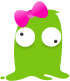
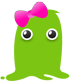
fixed opera css tag breaking some css, green monster has new eyes

diff --git a/public/stylesheets/style.css b/public/stylesheets/style.css
@@ -242,7 +242,7 @@ div#outer {
   height: 17px;
   background: url("/images/room/clearsearch.png") 50% 50% no-repeat;
 }
-div.chatContainer {
+.chatContainer {
   font-family: HelveticaNeue-Light, "Helvetica Neue Light", "Helvetica Neue", Helvetica, Arial, "Lucida Grande", sans-serif;
   width: 300px;
   height: 220px;
@@ -250,23 +250,17 @@ div.chatContainer {
   max-height: 220px;
   display: block;
 }
-div.chatContainer div.chatHeader {
+.chatContainer .chatHeader {
   width: 300px;
   height: 30px;
   background: -webkit-gradient(linear, left top, left bottom, from(#666), to(#434343));
   background: -moz-linear-gradient(top, #666, #434343);
+  background-image: -o-linear-gradient(top, #666, #434343);
 }
-div.chatContainer div.chatHeader background-image: -o-linear-gradient(top,
-div.chatContainer div.chatHeader #666,
-div.chatContainer div.chatHeader #434343),
-div.chatContainer div.chatHeader img.chatIcon {
-  display: inline-block;
-  width: 27px;
-  height: 24px;
-  margin-top: 4px;
-  margin-left: 5px;
+.chatContainer  img.chatIcon {
+  background-color: #f00;
 }
-div.chatContainer div.chatHeader div.chatTitle {
+.chatContainer  .chatTitle {
   margin-top: 6px;
   font-size: 16px;
   font-weight: bold;
@@ -277,7 +271,7 @@ div.chatContainer div.chatHeader div.chatTitle {
   height: 18px;
   width: 36px;
 }
-div.chatContainer #messages {
+.chatContainer #messages {
   background-color: #373737;
   border: none;
   color: #000;
@@ -285,7 +279,7 @@ div.chatContainer #messages {
   overflow-y: scroll;
   overflow-x: hidden;
 }
-div.chatContainer #messages div.messageContainer {
+.chatContainer #messages div.messageContainer {
   padding: 2px 4px;
   min-height: 20px;
   height: auto;
@@ -296,21 +290,21 @@ div.chatContainer #messages div.messageContainer {
   font-size: 14px;
   color: #d4d4d4;
 }
-div.chatContainer #messages div.messageContainer span {
+.chatContainer #messages div.messageContainer span {
   padding: 2px 0px 2px;
   margin-right: 3px;
   font-weight: bold;
   display: inline-block;
 }
-div.chatContainer #messages div.messageContainer div {
+.chatContainer #messages div.messageContainer div {
   padding-top: 2px;
   padding-bottom: 2px;
   display: inline;
 }
-div.chatContainer #messages div.messageContainer:nth-child(odd) {
+.chatContainer #messages div.messageContainer:nth-child(odd) {
   background-color: #313131;
 }
-div.chatContainer form.inputBox {
+.chatContainer form.inputBox {
   background-color: #666;
   background: -webkit-gradient(linear, left top, left bottom, from(#666), to(#434343));
   background: -moz-linear-gradient(top, #666, #434343);
@@ -322,7 +316,7 @@ div.chatContainer form.inputBox {
   -moz-border-bottom-right-radius: 2px;
   border-bottom-right-radius: 2px;
 }
-div.chatContainer form.inputBox input {
+.chatContainer form.inputBox input {
   border-radius: 4px;
   -webkit-border-radius: 4px;
   -moz-border-radius: 4px;
@@ -336,7 +330,7 @@ div.chatContainer form.inputBox input {
   text-indent: 4px;
   color: #c0c0c0;
 }
-div.chatContainer form.inputBox input:focus {
+.chatContainer form.inputBox input:focus {
   background-color: #e7e7e7;
   color: #000;
 }
@@ -536,7 +530,7 @@ div.historyContainer .history .videoHistory {
   margin-left: -70px;
   margin-top: 23px;
   font-size: 10px;
-  background: rgba(0,0,0,0.80);
+  background: rgba(0,0,0,0.8);
   width: 63px;
   text-align: left;
   text-indent: 1px;
@@ -1294,7 +1288,7 @@ background-color: green,
   text-align: left;
   text-indent: 1px;
   font-size: 10px;
-  background: rgba(0,0,0,0.80);
+  background: rgba(0,0,0,0.8);
   font-weight: bold;
 }
 #playlist-view .videoListCellContainer .cellInfo .videoInfo .views {
@@ -1616,7 +1610,7 @@ background-color: green,
   font-weight: bold;
 }
 #fullscreen.fully {
-  background: rgba(255,255,255,0.30);
+  background: rgba(255,255,255,0.3);
   position: fixed;
   margin-left: 0px;
   bottom: 0;
@@ -1626,7 +1620,7 @@ background-color: green,
   margin-top: 0px;
 }
 #fullscreen.fully:hover {
-  background: rgba(255,255,255,0.60);
+  background: rgba(255,255,255,0.6);
 }
 .nametip {
   width: 70px;
@@ -1652,7 +1646,7 @@ background-color: green,
   font-family: "Segoe UI", Candara, "Bitstream Vera Sans", "DejaVu Sans", "Bitstream Vera Sans", "Trebuchet MS", Verdana, "Verdana Ref", sans-serif;
   left: 50%;
   margin-left: -40%;
-  background: rgba(0,0,0,0.70);
+  background: rgba(0,0,0,0.7);
   box-shadow: 0px 0px 10px #000;
   text-align: center;
 }
@@ -1698,7 +1692,7 @@ background-color: green,
 }
 #fullscreenIcon.fully {
   background-color: #fff;
-  background: rgba(255,255,255,0.30);
+  background: rgba(255,255,255,0.3);
   position: fixed;
   margin-left: 0px;
   bottom: 0;
@@ -1709,7 +1703,7 @@ background-color: green,
 }
 #fullscreenIcon.fully:hover {
   background-color: #34b7fe;
-  background: rgba(255,255,255,0.60);
+  background: rgba(255,255,255,0.6);
 }
 #sofa-remote {
   left: 170px;
@@ -1876,7 +1870,9 @@ a#fdbk_tab {
   padding: 0 !important;
   display: inline;
 }
-<<<<<<< HEAD
+.friendInRoomPic {
+  margin-right: 3px;
+}
 #settings {
   display: inline-block;
   float: right;
@@ -1915,8 +1911,4 @@ a#fdbk_tab {
   -moz-box-shadow: inset 0 0 1px #000;
   -webkit-box-shadow: inset 0 0 1px #000;
   box-shadow: inset 0 0 1px #000;
-=======
-.friendInRoomPic {
-  margin-right: 3px;
->>>>>>> 55553822dfcda1f5979fa77170e3c5dbd28626fc
 }
